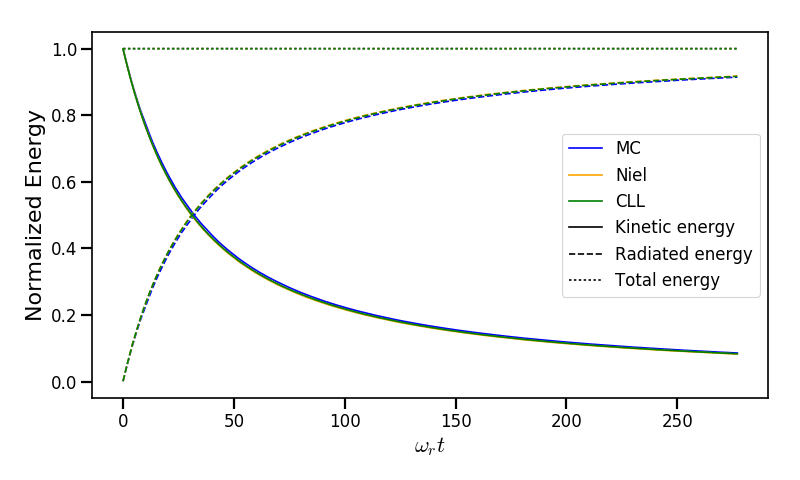
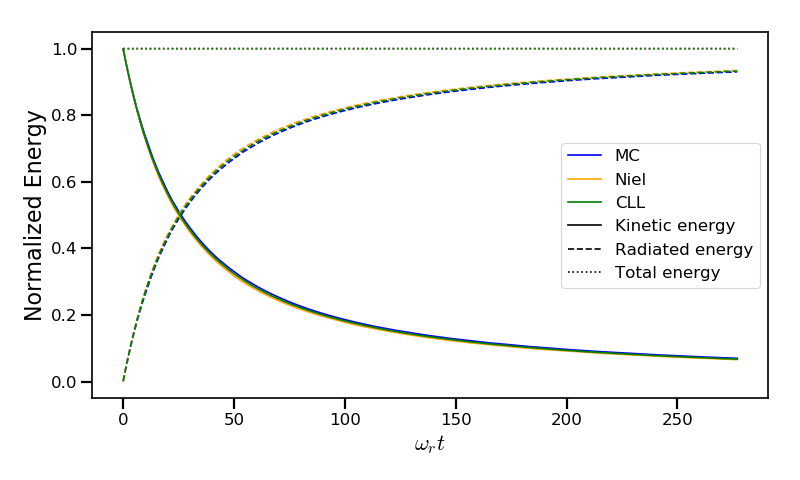
- New synchrotron case study with a Maxwell-Juttner distribution - New figures for the synchrotron case study in radiation_loss.rst - Update of the text for this case

diff --git a/doc/Sphinx/radiation_loss.rst b/doc/Sphinx/radiation_loss.rst
@@ -478,10 +478,17 @@ In such a configuration, the electron bunch is supposed to rotate endlessly
 with the same radius :math:`R = p_{-,0} /e B` without radiation energy loss.
 Here, the magnetic field is so strong that the electrons
 radiate their energy as in a synchrotron facility.
-The initial quantum parameter is equal to
-:math:`\chi_- = \gamma_{-,0} B /m_e E_s`.
+In this setup, each electron quantum parameter depends on their Lorentz
+factors :math:`\gamma_{-}` according to
+:math:`\chi_{-} = \gamma_{-} B /m_e E_s`.
+The quantum parameter is maximum at the beginning of the interaction.
+The strongest radiation loss are therefore observed at the beginning too.
+As energy decreases, radiation loss becomes less and less important so that
+the emission regime progressively move from the quantum to the classical regime.
 
-This corresponds to two different namelists in the benchmark folder:
+
+Similar simulation configuration can be found in the benchmarks.
+It corresponds to two different input files in the benchmark folder:
 
 * ``tst2d_8_synchrotron_chi1.py``: tests and compares the corrected
   Landau-Lifshitz and the Monte-Carlo model for an initial :math:`\chi = 1`.
@@ -493,11 +500,13 @@ In this section, we focus on the case with initial quantum parameter
 The magnetic field amplitude is :math:`B = 90 m \omega_r / e`.
 The initial electron Lorentz factor is
 :math:`\gamma_{-,0} = \varepsilon_{-,0}/mc^2 =  450`.
+Electrons are initialized with a Maxwell-Juttner distribution of temperature
+:math:`0.1 m_e c^2`.
 
 :numref:`synchrotron_scalar` shows the time evolution of the particle kinetic energy,
 the radiated energy and the total energy. All radiation models provide
 similar evolution of these integrated quantities. The relative error on the
-total energy is around :math:`3 \times 10^{-9}`.
+total energy is between :math:`2 \times 10^{-9}` and :math:`3 \times 10^{-9}`.
 
 .. _synchrotron_scalar:
 
@@ -508,17 +517,23 @@ total energy is around :math:`3 \times 10^{-9}`.
   lines for various models.
 
 The main difference between models can be understood by studying the
-particle trajectories and phase spaces. For this purpose, colormaps of
-the normalized kinetic energy at :math:`25 \omega_r^{-1}` are shown in
+particle trajectories and phase spaces. For this purpose, the local kinetic energy spatial-distribution
+at :math:`25 \omega_r^{-1}` is shown in
 :numref:`synchrotron_x_y_gamma` for the different models.
 With continuous radiation energy loss
-(corrected Landau-Lifshitz case), the electron bunch rotates with a decreasing
-radius but the bunch keeps its original shape. The radiation only acts as a
-cooling mechanism.
+(corrected Landau-Lifshitz case), each electron of the bunch rotates with a decreasing
+radius but the bunch.
+Each electron of similar initial energies have the same trajectories.
+In the case of a cold bunch (null initial temperature),
+the bunch would have kept its original shape.
+The radiation with this model only acts as a cooling mechanism.
 In the cases of the Niel and the Monte-Carlo radiation models,
-the stochastic effects come into play and lead the bunch to spread spatially.
-This effect is particularly strong at the beginning when the radiation recoil
-is the most important.
+stochastic effects come into play and lead the bunch to spread spatially.
+Each individual electron of the bunch, even with similar initial energies,
+have different trajectories depending on their emission history.
+Stochastic effects are particularly strong at the beginning  with the highest
+:math:`\chi` values when the radiation
+recoil is the most important.
 
 .. _synchrotron_x_y_gamma:
 
@@ -530,17 +545,34 @@ is the most important.
   and the corrected Landau-Lifshitz (**CLL**) models.
 
 :numref:`synchrotron_t_gamma_ne` shows the time evolution of
-the electron energy distribution for different radiation models.
-At the beginning, all particles have the same energy. Stochastic effects lead
-the bunch to spread energetically as shown on the Monte-Carlo and the Niel cases.
-This effect is the strongest at the beginning when the quantum parameter is high.
-In the Monte-Carlo case, some electrons lose all their energy almost immediately.
+the electron Lorentz factor distribution (normalized energy) for different
+radiation models.
+At the beginning, the distribution is extremely broad due to the Maxwell-Juttner parameters.
+The average energy is well around :math:`\gamma_{-,0} = \varepsilon_{-,0}/mc^2 =  450`
+with maximal energies above :math:`\gamma_{-} =  450`.
+
+In the case of a initially-cold electron beam,
+stochastic effects would have lead the bunch to spread energetically
+with the Monte-Carlo and the Niel stochastic models at the beginning of the simulation.
+This effect is hidden since electron energy is already highly spread at the
+beginning of the interaction.
+This effect is the strongest when the quantum parameter is high in the quantum regime.
+
+In the Monte-Carlo case, some electrons have lost all their energy almost immediately
+as shown by the lower part of the distribution below :math:`\gamma_{-} =  50`
+after comparison with the Niel model.
+
 Then, as the particles cool down, the interaction enters the semi-classical
 regime where energy jumps are smaller.
-In the classical regime, radiation energy loss reduces the electron spread
-in energy and in space
-In the Landau-Lifshitz case, there is no energy spread. This model can be seen
-as the average behavior of the stochastic ones.
+In the classical regime, radiation loss acts oppositely to the quantum regime.
+It reduces the spread in energy and space.
+In the Landau-Lifshitz case, this effect starts at the beginning even
+in the quantum regime due to the nature of the model.
+For a initially-cold electron bunch, there would not have been
+energy spread at the beginning of the simulation. All electron would have lost
+their energy in a similar fashion (superimposed behavior).
+This model can be seen as the average behavior of the stochastic ones of
+electron groups having the same initial energy.
 
 .. _synchrotron_t_gamma_ne:
 
